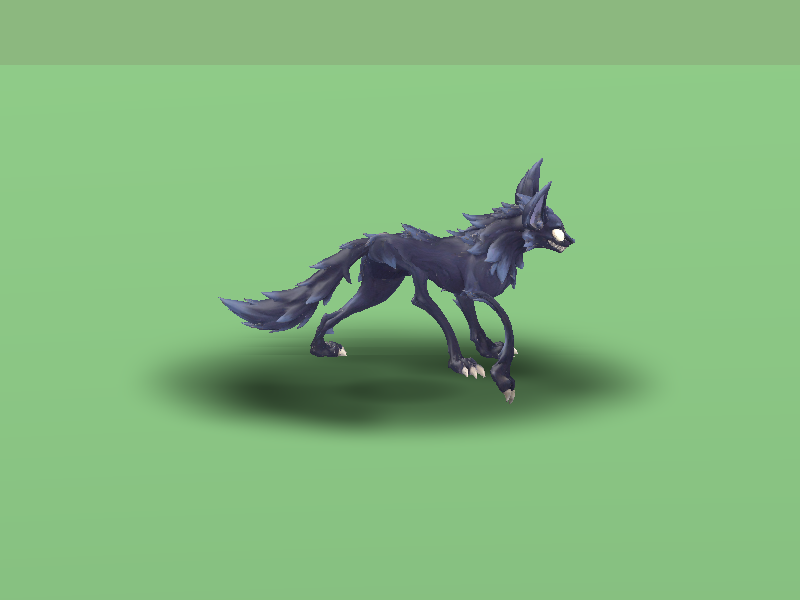
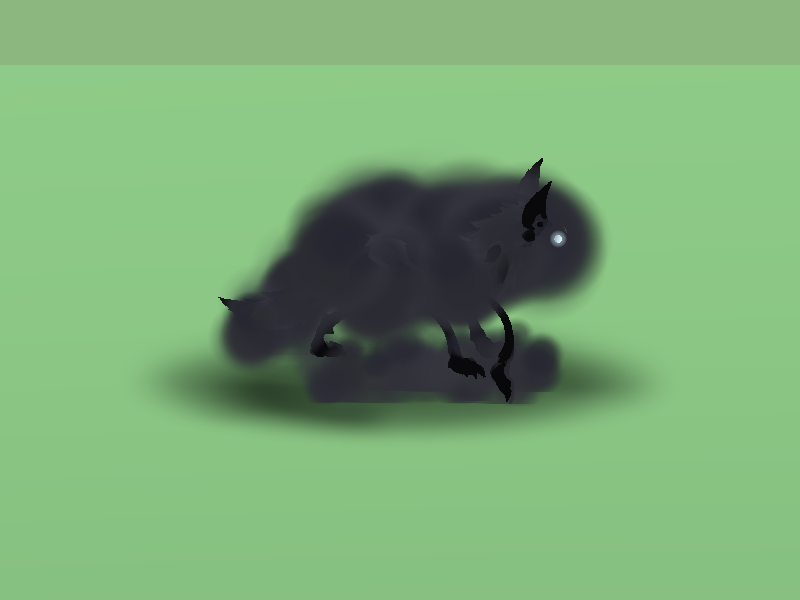
Niebla del canouro v2: cuerpo negro, humo en los huesos y ojos blancos; la prueba mide la pose ya modificada

Changed region(s): [[0.25, 0.27, 0.7812, 0.69]]

diff --git a/docs/DIARIO.md b/docs/DIARIO.md
@@ -4671,3 +4671,5 @@ Todo en `enemigos/combate_3d.gd` detrás de `static var ELEMENTAL_V2 := true` (c
 - **Destello de debilidad**: el fuego lo tiñe de rojo anaranjado puro (1, 0,24, 0,05), sin fase blanca.
 - **Pruebas**: `prueba_elemental_v2` 58 OK, FALLOS 0 (incluye el `_process` real de Jugador3D enraizada). Regresión en la rama frente a la base (la base ya fallaba sin tocar nada y varias fluctúan entre ejecuciones): contrato_enemigo 0/0, dano_tinta 0/0, empuje_masa 0/0, botin 0/0, ritmo_goblin 0/0, empujado_goblin 0/0, barrera 0/0, hechizo_vivo 0/0, errores_consola 0/0, golpe_cuerpo 0/0, chaman_combate 0, gatopedro 0; iconos_estado 9/4/5 (base, tres corridas distintas), escudo_goblin 8/9 vs 9, contacto_fuego 5 vs 5, golem_combate 7 vs 7, ataques_avisados 1/0 vs 0-1, goblin_asesino 1 vs 1; `prueba_destello_elemento` 18 en la base y 19 en la rama: el nuevo falla porque esa prueba espera para el fuego del elemental el primer fotograma BLANCO y el naranja aclarado, justo lo que esta tarea cambia (no se tocó la prueba).
 - **No verificado**: nada a ojo ni en ventana (sin captura del aviso de raíces ni de los tirantes); el radio de las raíces (1,8 u ≈ 0,8 casillas), el brillo del hilo y la altura de las raíces son de papel; el aviso de raíces cuenta como aviso de ataque (da premio de esquiva de `TiempoBruja` si se rueda a tiempo).
+
+## 400 — Juego (6/11): **Niebla del canouro, 2.ª versión: sombra de humo negro con ojos blancos** (Pablo: «commitea tu niebla»; el trabajo estaba sin commit en la carpeta de main desde el 5/11) — `presentacion/niebla_canouro_3d.gd` pasa de solo niebla a ras de suelo a tres piezas más, todas en `static var`: **cuerpo negro** (`CUERPO_NEGRO`, `material_override` sin luz y casi negro en cada malla del animal), **humo del cuerpo** (`HUMO_HUESOS`: 15 emisores de bocanadas negras, uno por hueso del rig Wolf —lomo, cuello, cabeza, cola, muslos y pies—, colgados de un `BoneAttachment3D` y con `local_coords` false para que el humo se quede atrás al correr; mancha radial más cerrada `HUMO_MANCHA` para que no salgan grises) y **ojos** (`OJOS`, dos esferas blancas con halo aditivo atadas al hueso Head). La niebla de suelo de la 1.ª versión sigue debajo. Al morir se apagan humo y ojos; el cuerpo queda negro. Ojo: con el cuerpo negro el destello de color al recibir golpes no se ve (lo tapa el override). Capturas `docs/capturas/niebla_canouro/` rehechas. **Arreglo de la prueba** (`prueba_niebla_canouro.gd`, casos G nuevos): daba 2 FALLOS fijos (3 de 3) porque medía la pose del esqueleto fuera de `skeleton_updated`, sin los `SkeletonModifier3D` (MarchaCuadrupedo, ProporcionChibi) que mueven lomo, cuello, cabeza y patas delanteras: el humo salía «a 7 cm» y los ojos «a 0,164 u» de la cabeza. Midiendo dentro de la señal (la pose que se pinta y la que siguen los BoneAttachment3D): desvío 0,000 u y ojos a 0,098 u (< 0,1375). También exigía `top_level` en los emisores, que el código ya no usa; ahora comprueba `local_coords` false. **Pruebas:** niebla_canouro 0 FALLOS en 3 de 3. **No verificado:** el código de la niebla no lo he tocado salvo un comentario; no la he visto en ventana. Número 400 porque la 399 la ocupa el libro avanzado, aún sin commit en la carpeta de main.
